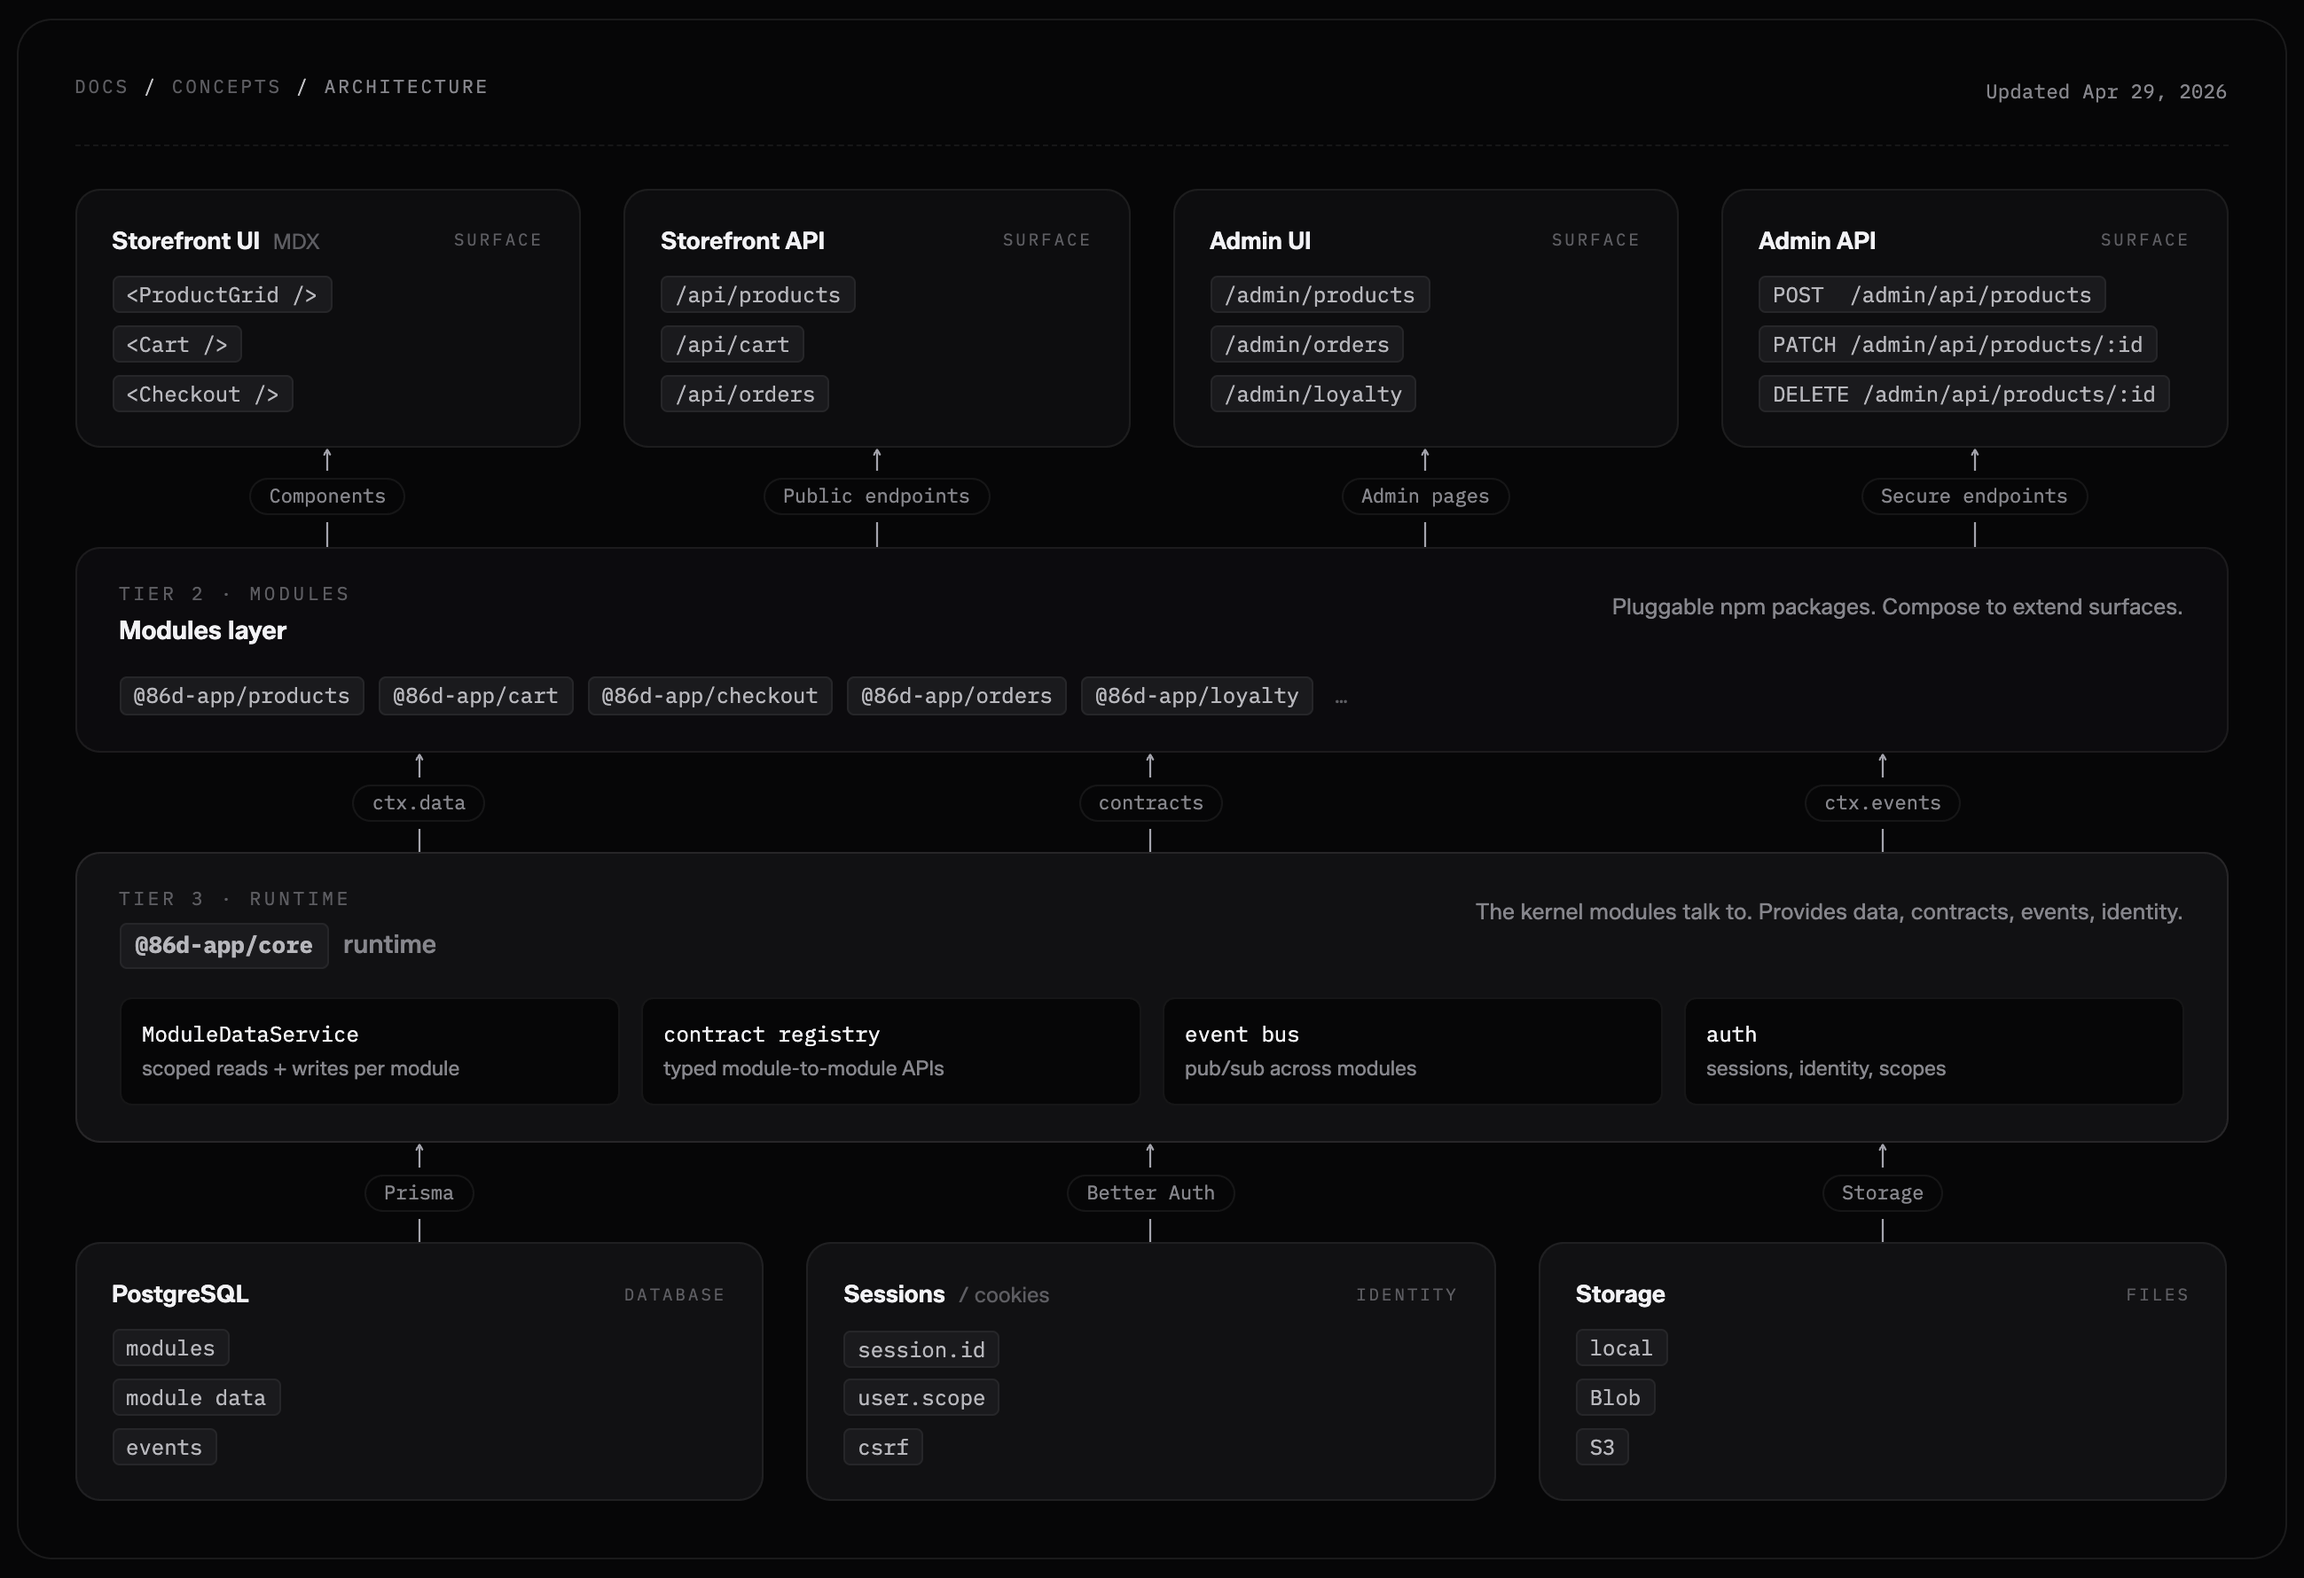
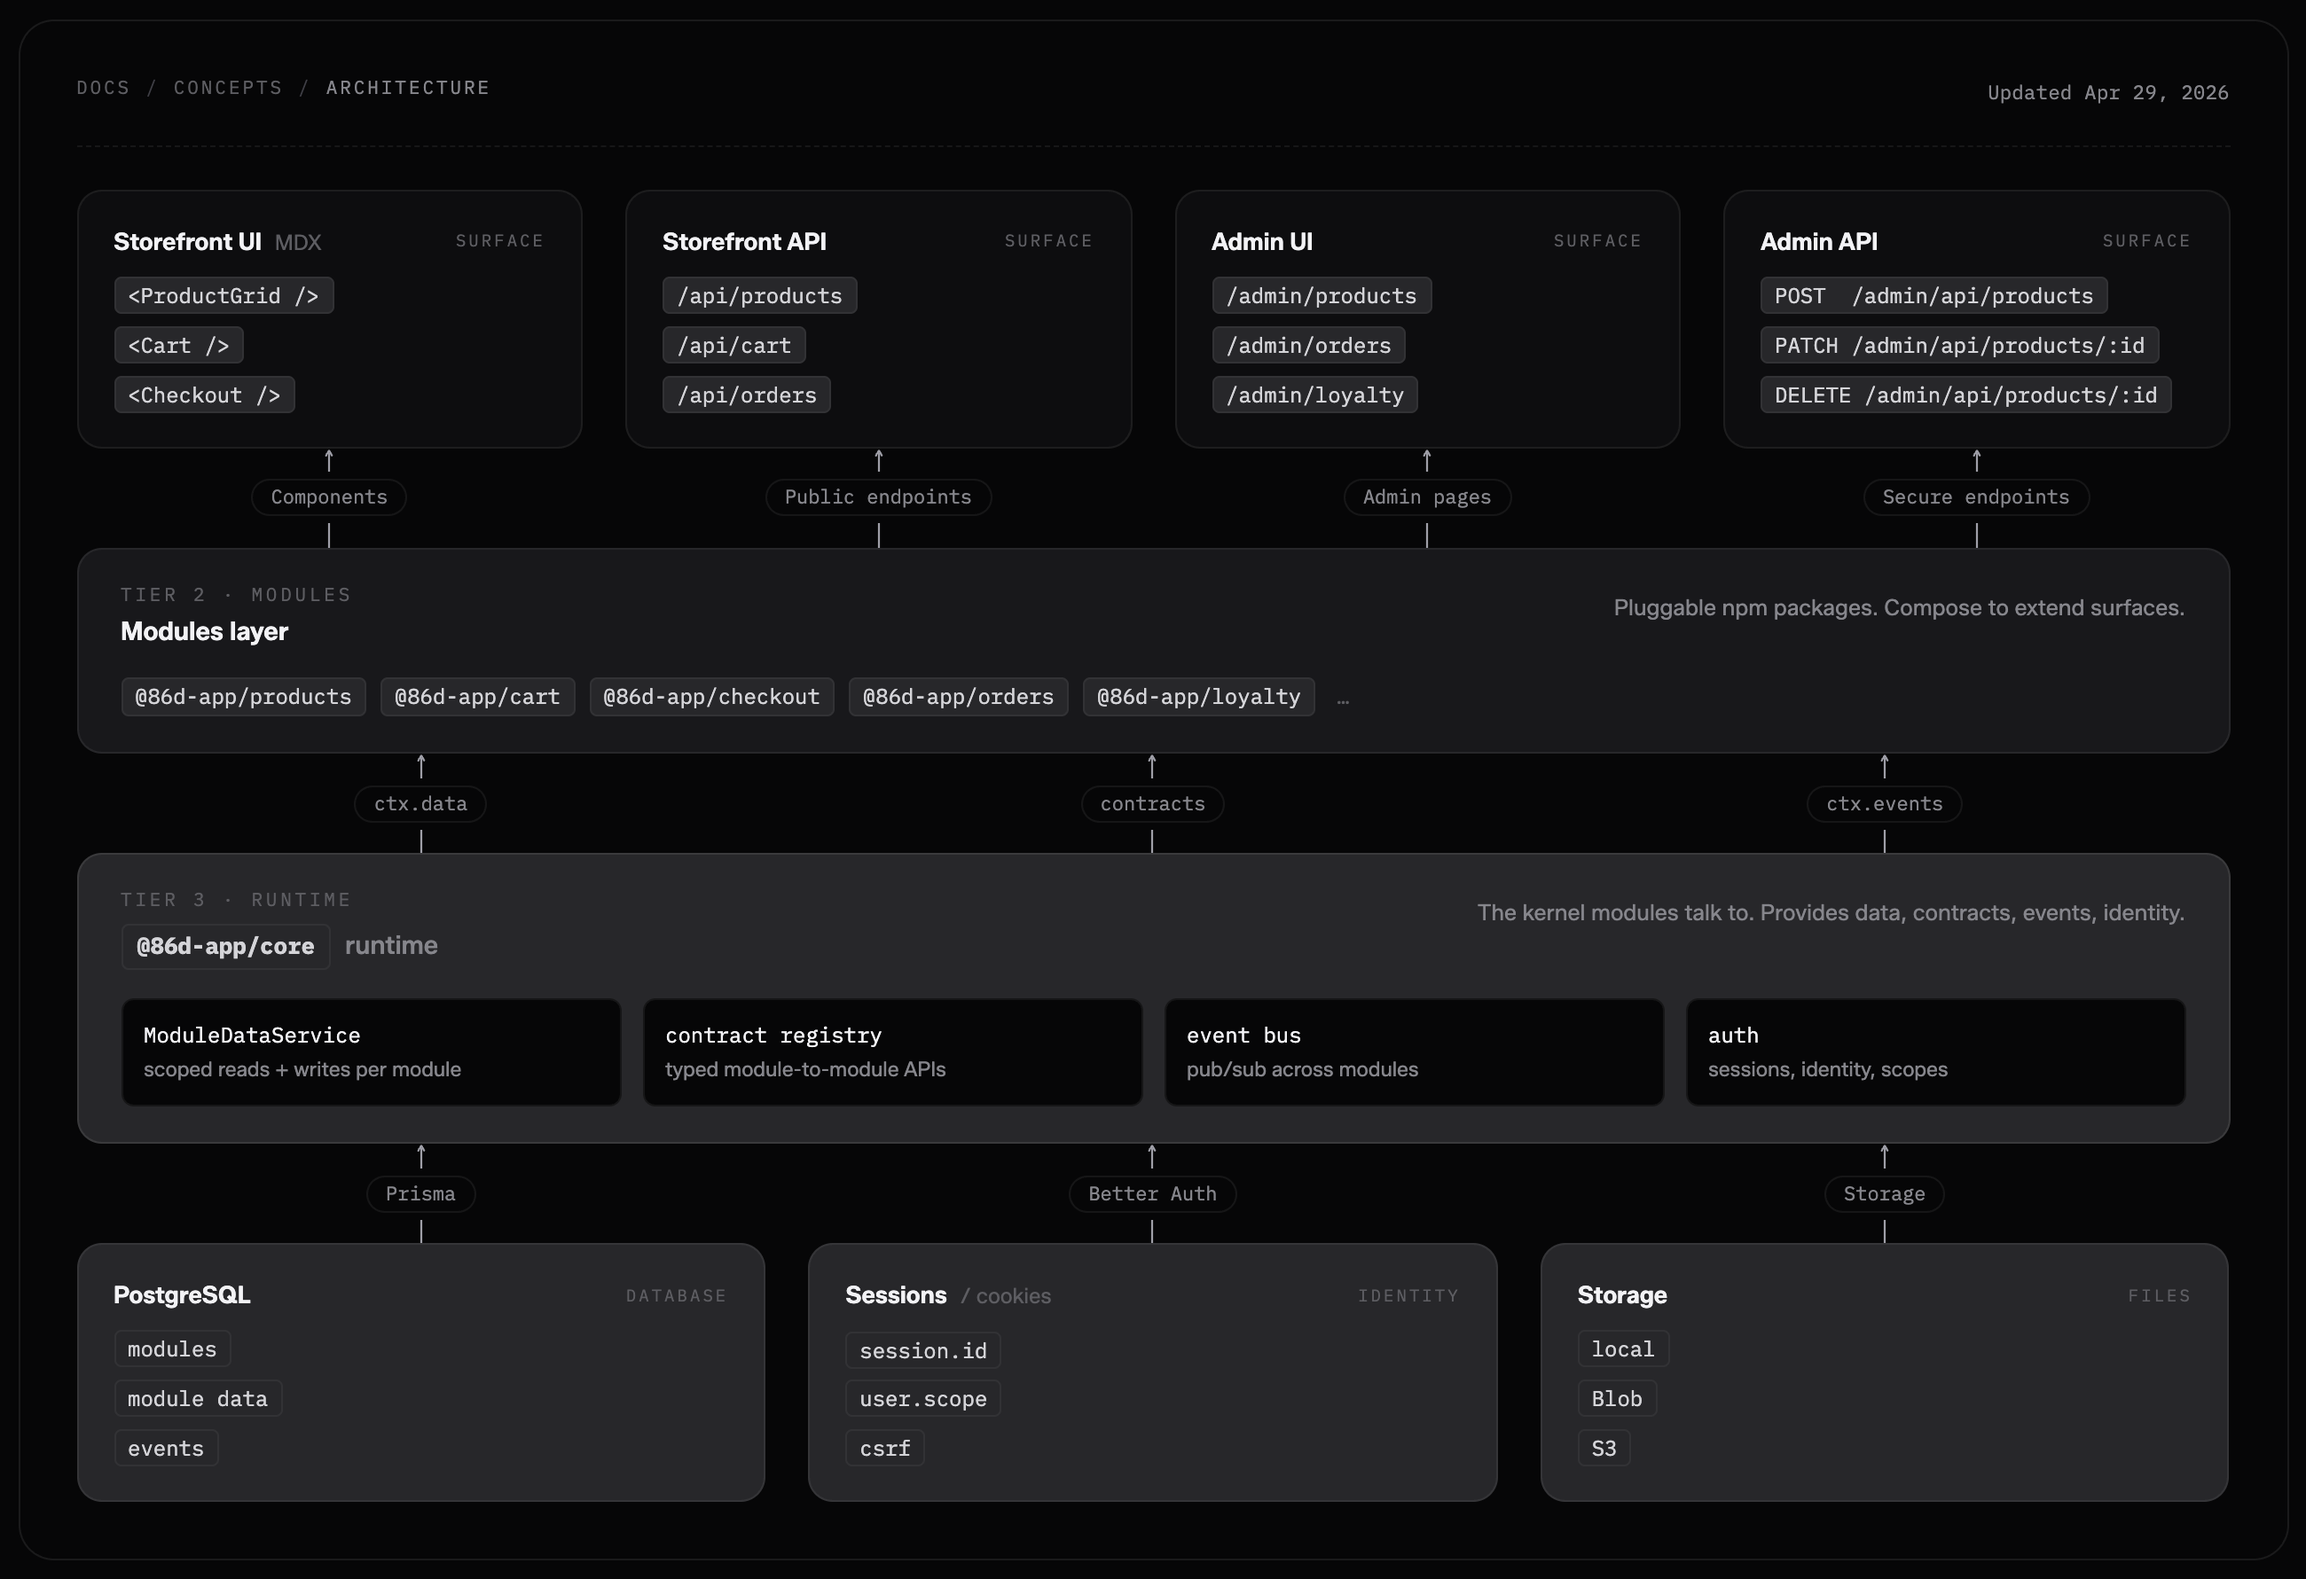
fix architecture images, add background color

diff --git a/styles.css b/styles.css
@@ -1,0 +1,6 @@
+@import "@mintlify/components/styles.css";
+@import "tailwindcss";
+
+@theme {
+  --color-background-dark: lab(2.51107% .242703 -.886115);
+}
